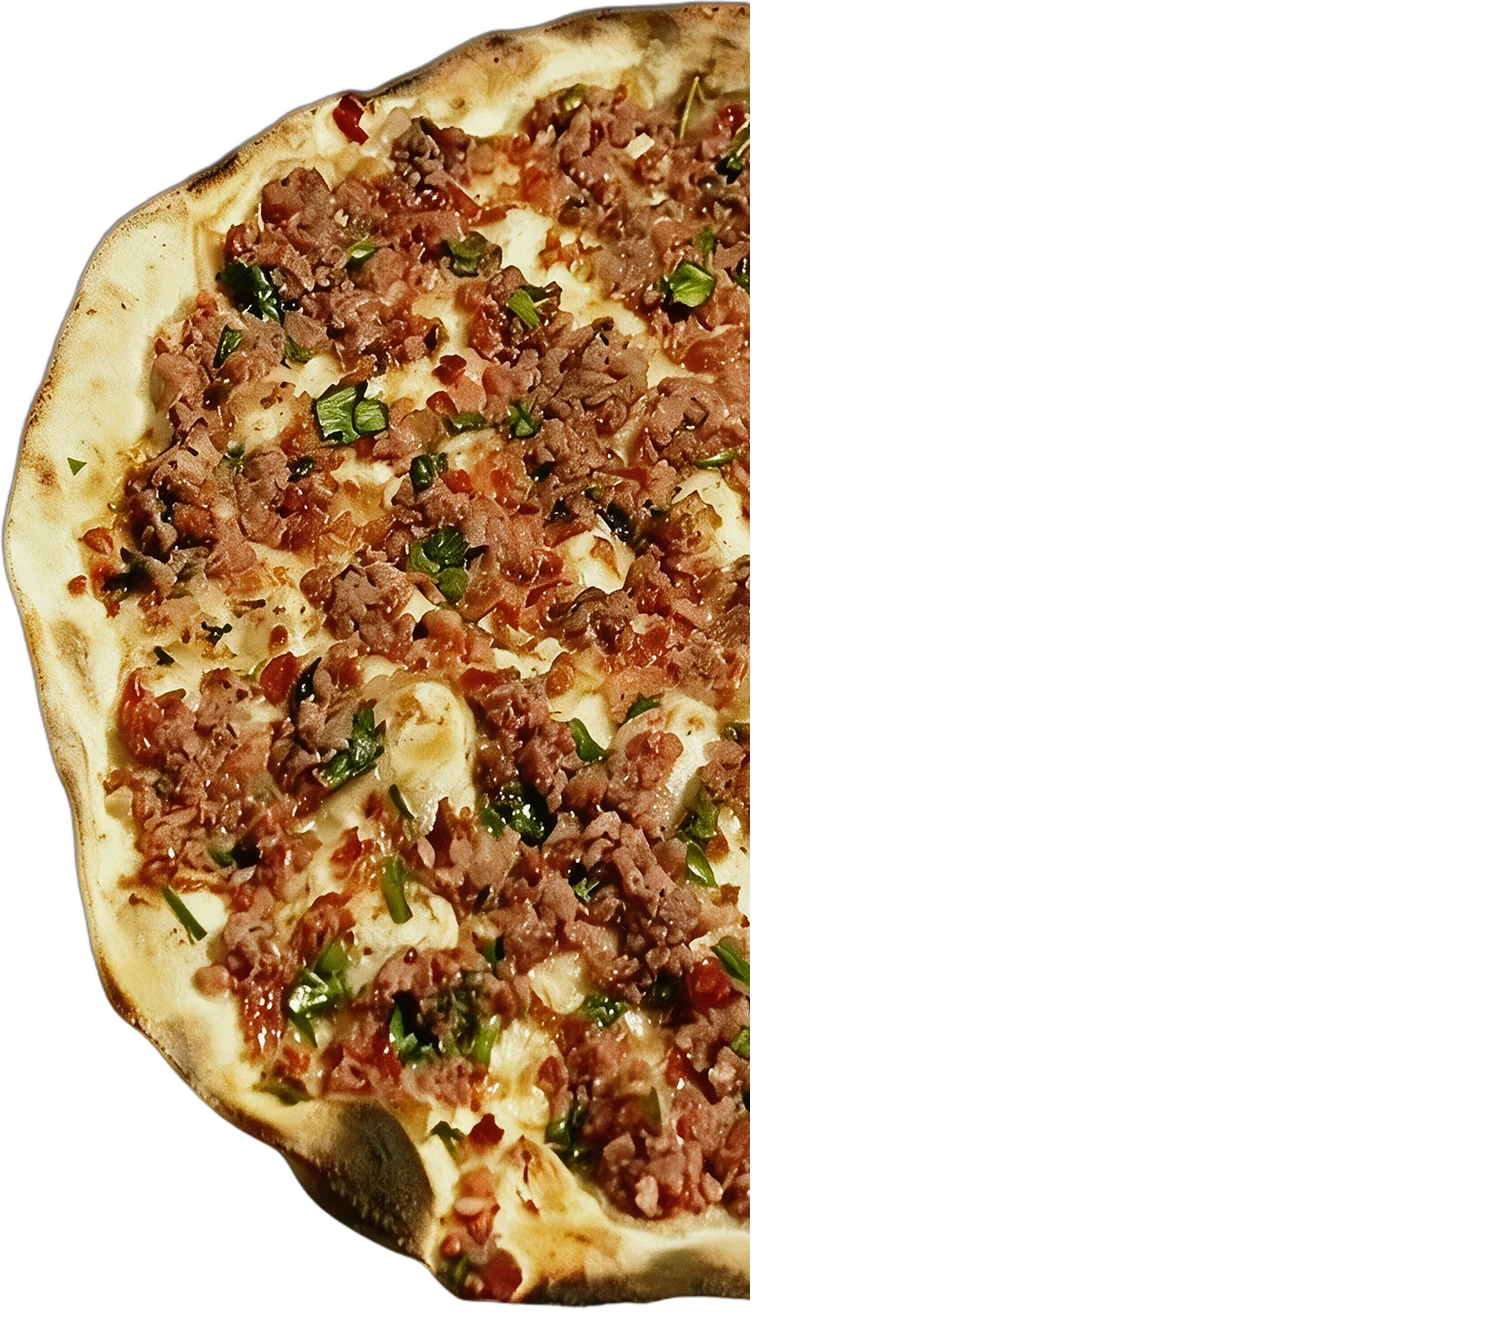
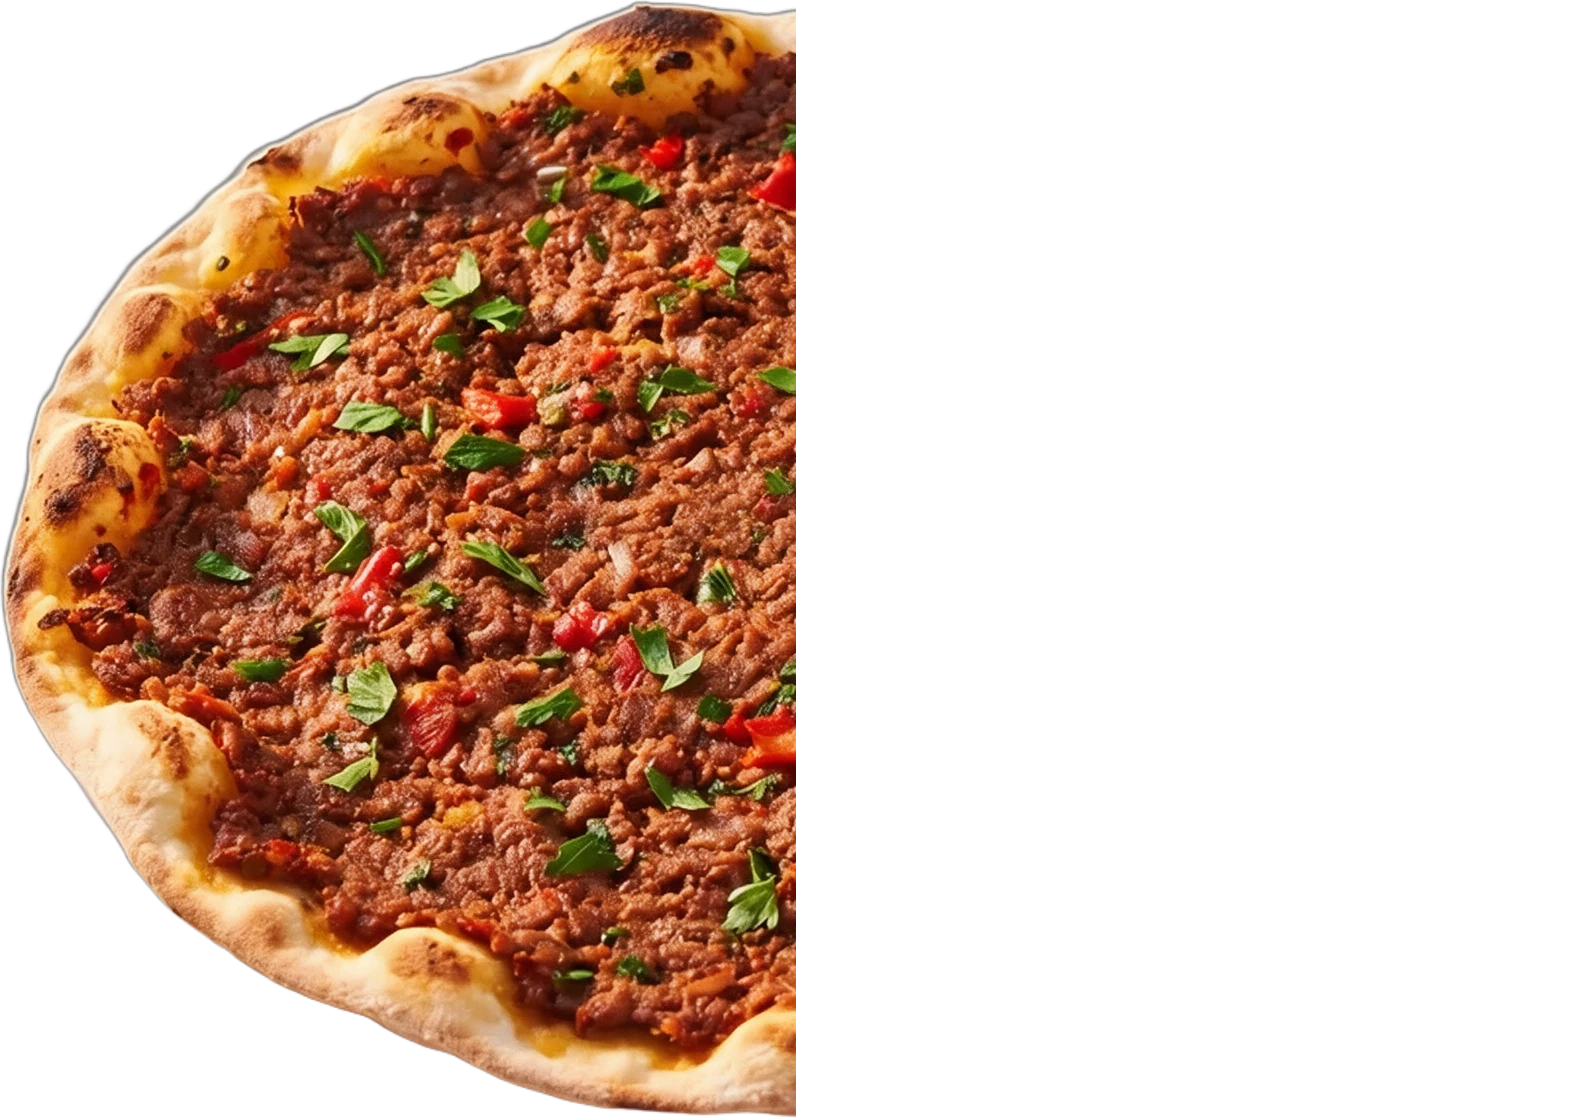
revert(vorhang): die alte Scheibe zurueck — nur ohne Zitrone
Karol am 08.09.: „mach das Lahmacun wieder wie vorher, nur ohne Zitrone. Auch
die Teilanimation mit der Karte einfach behalten."

Der Tausch gegen IHREN fotografierten Lahmacun war naeher an der Wahrheit und
weiter weg von dem, was die Sektion braucht: eine flache, gleichmaessig runde
Form, die sich sauber in zwei Haelften teilen laesst. Ein echtes Foto mit
gewelltem Rand und perspektivischer Kippung tut das nicht — die Scheibe ist
hier kein Produktbild, sondern ein Vorhang.

Also zurueck auf die urspruengliche Scheibe. Die Zitrone ist trotzdem weg
(Karol am 01.09.: „vielleicht die Zitrone runter nehmen"), herausgenommen ueber
`is_inpaint` mit einem Wortlaut, der genau EINE Aenderung erlaubt: Zitrone und
Petersilienzweig raus, der Hackfleischbelag laeuft darunter weiter, alles
uebrige identisch.

Gemessen gegen das Original: Farbabstand 9,0 und Umriss-IoU 99,7 %. Es ist
dieselbe Scheibe, nur ohne die Deko. Zwei Faelle erzeugt, der naehere genommen
(der andere lag bei 9,7 und hatte mehr Paprikastuecke).

Ein Unterschied bleibt, und er ist Absicht: 1592 x 1119 statt 811 x 568. Das
ist dasselbe Verhaeltnis bis auf 0,4 %, aber doppelte Aufloesung — der Vorhang
ist laut seinem eigenen Kommentar „die groesste Flaeche der Seite" und lief mit
einem Bild, das kleiner war als seine Darstellung. Wenn das stoert, ist es eine
Zeile.

An Vorhang.tsx wurde nichts geaendert. Nachgemessen: die Haelften stehen
geschlossen auf 0/0, beim Oeffnen auf −1239/+1239 und offen auf −1248/+1248,
[…]

diff --git a/src/stile/sektionen.css b/src/stile/sektionen.css
@@ -4185,15 +4185,27 @@
   /**
    * ═══ Das Verhaeltnis kommt aus der Datei, nicht aus der Erinnerung ═══
    *
-   * 811 / 568 war die erzeugte Scheibe. Seit dem 08.09. ist es IHR Lahmacun
-   * (1500 x 1327) — Karol: „die Produkte, also die Pizza und so weiter, auch
-   * gegen schoenere Bilder austauschen, aber so nah wie moeglich am
-   * Aram-Look." Naeher als ihr eigenes Gericht geht nicht.
+   * Karol am 08.09.: „mach das Lahmacun wieder wie vorher, nur ohne Zitrone.
+   * Auch die Teilanimation mit der Karte einfach behalten."
+   *
+   * Also zurueck auf die urspruengliche Scheibe. Sie war ein Umweg wert: der
+   * Versuch, sie durch IHREN fotografierten Lahmacun zu ersetzen, war naeher
+   * an der Wahrheit, aber weiter weg von dem, was die Sektion braucht — eine
+   * flache, gleichmaessig runde Form, die sich sauber teilen laesst. Ein
+   * echtes Foto mit gewelltem Rand tut das nicht.
+   *
+   * Die Zitrone ist trotzdem weg (Karol am 01.09.), herausgenommen ueber
+   * `is_inpaint`: gemessener Farbabstand 9,0 und Umriss-IoU 99,7 % zum
+   * Original — es ist dieselbe Scheibe, nur ohne die Deko.
+   *
+   * 1592 / 1119 statt 811 / 568: dasselbe Verhaeltnis bis auf 0,4 %, aber
+   * doppelte Aufloesung. Der Vorhang ist die groesste Flaeche der Seite und
+   * lief mit einem Bild, das kleiner war als seine Darstellung.
    *
    * Wer die Datei tauscht, muss diese Zahl mitziehen; sie steht auch in
-   * inhalt/vorhang.json und wird von dort an die Bildmasse gereicht.
+   * inhalt/vorhang.json.
    */
-  aspect-ratio: 1500 / 1327;
+  aspect-ratio: 1592 / 1119;
   display: grid;
   place-items: stretch;
   pointer-events: none;
